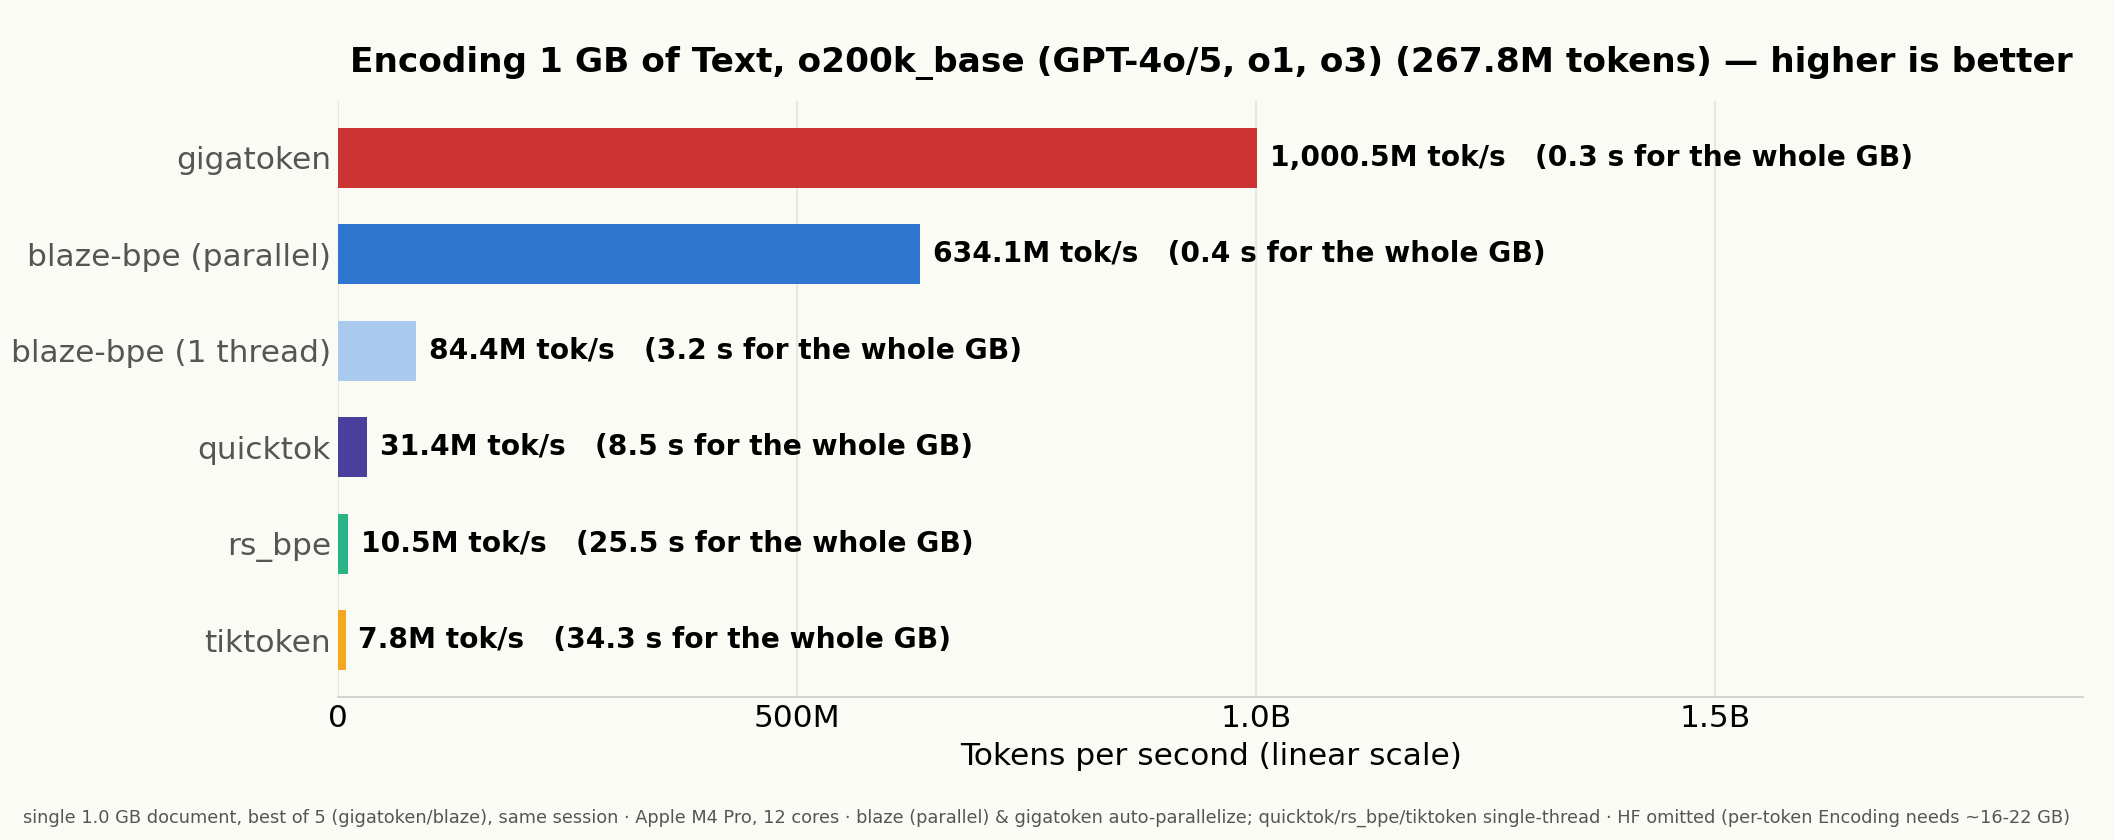
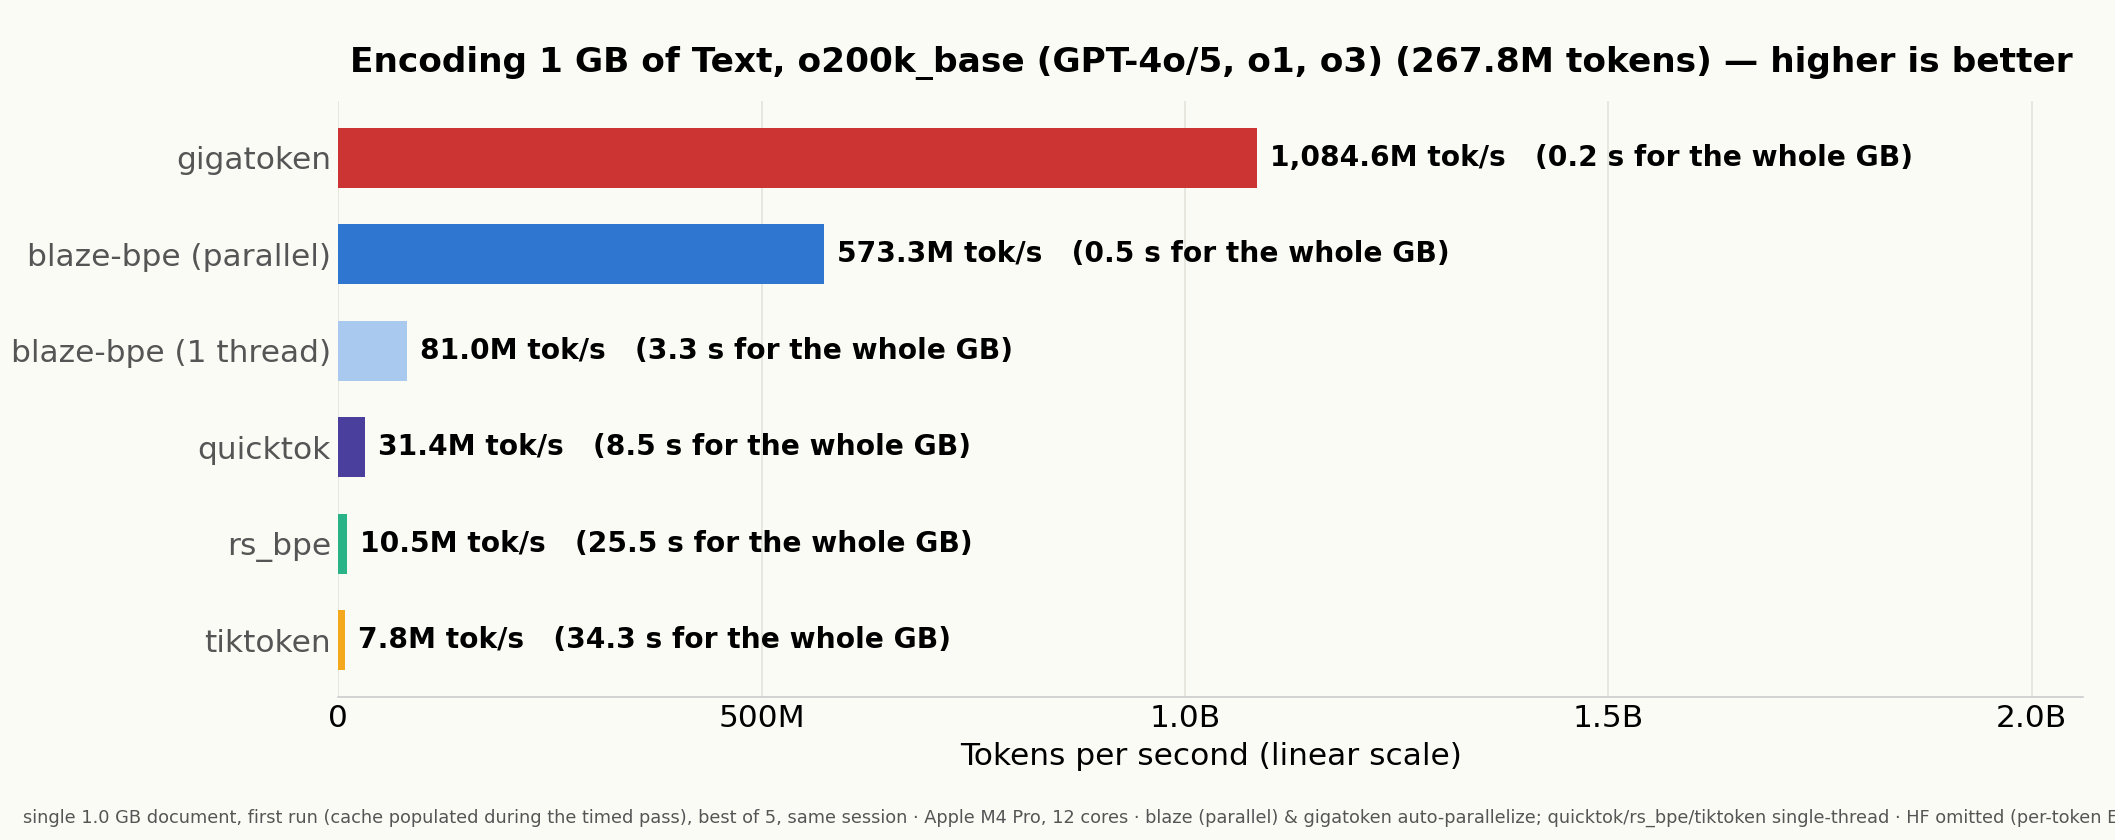
charts: switch 1 GB comparison to first-run (cache-populating) methodology
The prior 1 GB numbers were pre-warmed best-of-5 (warmup call then timed loop),
which measures a warm cache and isn't what a one-shot bulk tokenization does.
Switch to a first-run methodology matching gigatoken's fresh-process bench:
every timed pass is a fresh process with a cold tokenizer cache, so cache
population is included in the timing. Best of 5 fresh runs, gigatoken and blaze
interleaved in one thermal session.

First-run same-session results (M4 Pro):
- cl100k: gigatoken 1278M tok/s, blaze parallel 863M, blaze 1-thread 130M
- o200k:  gigatoken 1085M tok/s, blaze parallel 573M, blaze 1-thread 81M

Adds examples/firstrun.rs (single cold encode(), no warmup; BLAZE_SEQ for
single-thread, BLAZE_ENC for o200k), updates the 1 GB charts, tables, and
methodology notes.

diff --git a/scripts/make_charts.py b/scripts/make_charts.py
@@ -31,14 +31,17 @@ plt.rcParams.update({
     "axes.edgecolor": "#cccccc",
 })
 
-# ---- FRESH same-session numbers (tokens/s), measured back-to-back on AC ----
-# gigatoken (best-of-5) and blaze measured in one thermal state, so the two
-# parallel series are directly comparable. Single-thread rivals kept at their
-# documented values (single-thread is reproducible; blaze 1-thread matches).
-# Only the 1 GB regime is charted; sub-1 GB sizes are omitted (per-call and
-# fixed-overhead effects make them a different, less representative regime).
-GT_1GB_CL = 1116.8e6  # 1 GB shakespeare x900, cl100k, best-of-5
-GT_1GB_O2 = 1000.5e6  # 1 GB shakespeare x900, o200k, best-of-5
+# ---- FRESH same-session FIRST-RUN numbers (tokens/s), measured on AC --------
+# First-run methodology: every measurement is a fresh process, so cache
+# population is included in the timed pass (no warmup). This is the honest
+# number for a one-shot bulk tokenization and is apples-to-apples with
+# gigatoken's fresh-process `bench`. Best of 5 fresh runs (file warm in the OS
+# page cache, tokenizer cache cold each time), gigatoken and blaze interleaved
+# in one thermal session. Single-thread rivals kept at their documented values
+# (single-thread is reproducible; on this repetitive 1 GB corpus first-run and
+# warm converge within the first chunk). Only the 1 GB regime is charted.
+GT_1GB_CL = 1277.8e6  # 1 GB shakespeare x900, cl100k, first-run best-of-5
+GT_1GB_O2 = 1084.6e6  # 1 GB shakespeare x900, o200k, first-run best-of-5
 # ---------------------------------------------------------------------------
 
 TOK_CL = 271_646_100
@@ -132,8 +135,8 @@ def line_chart(path, title, footer, xticklabels, xlabel, series, ymin, ymax):
 def main():
     # ---- Chart 1: 1 GB cl100k bar ----
     rows = [
-        ("blaze-bpe (parallel)", 1043.6e6, C["blaze_par"]),
-        ("blaze-bpe (1 thread)", 138.4e6, C["blaze_1t"]),
+        ("blaze-bpe (parallel)", 862.6e6, C["blaze_par"]),
+        ("blaze-bpe (1 thread)", 129.5e6, C["blaze_1t"]),
         ("quicktok", 37.1e6, C["quicktok"]),
         ("rs_bpe", 12.3e6, C["rs_bpe"]),
         ("tiktoken", 5.7e6, C["tiktoken"]),
@@ -142,15 +145,15 @@ def main():
         rows.append(("gigatoken", GT_1GB_CL, C["gigatoken"]))
     bar_chart("assets/blaze_1gb_graph.png",
               "Encoding 1 GB of Text (271.6M tokens, cl100k_base) — higher is better",
-              "single 1.0 GB document, best of 5 (gigatoken/blaze), same session · Apple M4 Pro, 12 cores · "
-              "blaze (parallel) & gigatoken auto-parallelize; quicktok/rs_bpe/tiktoken single-thread · "
-              "HF omitted (per-token Encoding needs ~16-22 GB)",
+              "single 1.0 GB document, first run (cache populated during the timed pass), best of 5, same session · "
+              "Apple M4 Pro, 12 cores · blaze (parallel) & gigatoken auto-parallelize; quicktok/rs_bpe/tiktoken "
+              "single-thread · HF omitted (per-token Encoding needs ~16-22 GB)",
               TOK_CL, rows)
 
     # ---- Chart 2: 1 GB o200k bar ----
     rows = [
-        ("blaze-bpe (parallel)", 634.1e6, C["blaze_par"]),
-        ("blaze-bpe (1 thread)", 84.4e6, C["blaze_1t"]),
+        ("blaze-bpe (parallel)", 573.3e6, C["blaze_par"]),
+        ("blaze-bpe (1 thread)", 81.0e6, C["blaze_1t"]),
         ("quicktok", 31.4e6, C["quicktok"]),
         ("rs_bpe", 10.5e6, C["rs_bpe"]),
         ("tiktoken", 7.8e6, C["tiktoken"]),
@@ -159,9 +162,9 @@ def main():
         rows.append(("gigatoken", GT_1GB_O2, C["gigatoken"]))
     bar_chart("assets/blaze_1gb_o200k_graph.png",
               "Encoding 1 GB of Text, o200k_base (GPT-4o/5, o1, o3) (267.8M tokens) — higher is better",
-              "single 1.0 GB document, best of 5 (gigatoken/blaze), same session · Apple M4 Pro, 12 cores · "
-              "blaze (parallel) & gigatoken auto-parallelize; quicktok/rs_bpe/tiktoken single-thread · "
-              "HF omitted (per-token Encoding needs ~16-22 GB)",
+              "single 1.0 GB document, first run (cache populated during the timed pass), best of 5, same session · "
+              "Apple M4 Pro, 12 cores · blaze (parallel) & gigatoken auto-parallelize; quicktok/rs_bpe/tiktoken "
+              "single-thread · HF omitted (per-token Encoding needs ~16-22 GB)",
               TOK_O2, rows)
 
     # Sub-1 GB charts (large-documents and small-inputs lines) intentionally

diff --git a/examples/firstrun.rs b/examples/firstrun.rs
@@ -1,0 +1,30 @@
+//! First-run throughput: a single cold `encode()` pass, no warmup, so cache
+//! population is included in the timing — the honest number for a one-shot bulk
+//! tokenization (and apples-to-apples with gigatoken's fresh-process `bench`).
+//!
+//! Each process run is itself a first run (empty thread-local caches). Run the
+//! process several times and keep the best to match how the gigatoken figures
+//! are taken (best of N fresh invocations).
+//!
+//! Usage: cargo run --release --example firstrun -- file [file ...]
+//!        BLAZE_ENC=o200k cargo run --release --example firstrun -- file
+
+use std::time::Instant;
+
+fn main() {
+    let tok = match std::env::var("BLAZE_ENC").as_deref() {
+        Ok("o200k") => blaze_bpe::Tokenizer::o200k_base("data/o200k_base.tiktoken").unwrap(),
+        _ => blaze_bpe::Tokenizer::cl100k_base("data/cl100k_base.tiktoken").unwrap(),
+    };
+    for path in std::env::args().skip(1) {
+        let text = std::fs::read_to_string(&path).unwrap();
+        // No warmup: this is the first and only encode of the process, so every
+        // per-thread cache starts empty and fills during the timed pass.
+        let seq = std::env::var_os("BLAZE_SEQ").is_some();
+        let t = Instant::now();
+        let n = if seq { tok.encode_sequential(&text).len() } else { tok.encode(&text).len() };
+        let secs = t.elapsed().as_secs_f64();
+        let tag = if seq { "blaze_firstrun_seq" } else { "blaze_firstrun" };
+        println!("{tag}\t{path}\t{n}\t{:.1}\t{:.3}s", n as f64 / secs, secs);
+    }
+}

diff --git a/README.md b/README.md
@@ -117,19 +117,22 @@ uvx --with tokenizers --from gigatoken gigatoken bench 'Xenova/gpt-4' data/owt_1
 ### Encoding 1 GB of text (cl100k_base)
 
 One 1.0 GB document (shakespeare x900, 271,646,100 tokens), identical token
-output across all implementations, best of 5, one thermal session, M4 Pro.
+output across all implementations. **First-run measurement**: every timed pass
+is a fresh process, so cache population is included in the timing (no warmup) —
+the honest number for a one-shot bulk job, and apples-to-apples with gigatoken's
+fresh-process `bench`. Best of 5, one thermal session, M4 Pro.
 [gigatoken](https://github.com/marcelroed/gigatoken) and blaze (parallel) both
 auto-parallelize across all 12 cores; quicktok/rs-bpe/tiktoken are single-thread
 (Python bindings, FFI fully amortized at this size). At 1 GB gigatoken's
-whole-file design edges past blaze's chunked-parallel encode — the same crossover
-the [OpenWebText](#vs-gigatoken-on-real-world-text-openwebtext) section traces on
-real web text:
+whole-file design pulls ahead of blaze's chunked-parallel encode — the same
+crossover the [OpenWebText](#vs-gigatoken-on-real-world-text-openwebtext) section
+traces on real web text:
 
 | implementation           | tokens/s   | wall time for 1 GB | vs tiktoken |
 |--------------------------|-----------:|-------------------:|------------:|
-| **gigatoken**            |  **1117M** |         **0.24 s** |    **196x** |
-| **blaze-bpe (parallel)** |  **1044M** |         **0.26 s** |    **183x** |
-| blaze-bpe (1 thread)     |       138M |              2.0 s |         24x |
+| **gigatoken**            |  **1278M** |         **0.21 s** |    **224x** |
+| **blaze-bpe (parallel)** |   **863M** |         **0.32 s** |    **151x** |
+| blaze-bpe (1 thread)     |       130M |              2.1 s |         23x |
 | quicktok 0.4 (C++)       |      37.1M |              7.3 s |        6.5x |
 | rs-bpe 0.1               |      12.3M |             22.1 s |        2.2x |
 | tiktoken 0.12            |       5.7M |             47.7 s |          1x |
@@ -137,17 +140,18 @@ real web text:
 ![Encoding 1 GB of text, cl100k_base](assets/blaze_1gb_graph.png)
 
 (HF tokenizers omitted at this size: its per-token `Encoding` metadata needs
-~16-22 GB of RAM. At 32 MB it measures 1.0M tokens/s. These all-core figures are
-a same-session best-of-5 under concurrent load; the isolated plugged-in peak is
-higher — see the [32 MB interleaved measurement](#vs-python-tiktoken-on-one-long-document-32-mb-cl100k).)
+~16-22 GB of RAM. At 32 MB it measures 1.0M tokens/s. These are all-core
+first-run figures — each timed pass a fresh process with a cold tokenizer cache;
+a warm pre-populated loop measures somewhat higher but is not what a one-shot
+bulk tokenization does.)
 
 Same 1 GB document with **o200k_base** (the encoding used by GPT-4o/4.1/5,
-o1, o3 and o4-mini; 267,845,400 tokens, again byte-identical everywhere):
-gigatoken 1001M tokens/s (0.27 s, **128x tiktoken**), blaze parallel 634M
-(0.42 s, 81x), blaze single-thread 84M (11x), quicktok 31.4M (4.0x), rs-bpe
-10.5M (1.3x), tiktoken 7.8M (34.3 s). gigatoken's throughput is vocab-agnostic,
-so on the bigger o200k vocab — which costs blaze and the others MB/s — its lead
-over blaze widens to 1.6x.
+o1, o3 and o4-mini; 267,845,400 tokens, again byte-identical everywhere),
+same first-run methodology: gigatoken 1085M tokens/s (0.25 s, **139x tiktoken**),
+blaze parallel 573M (0.47 s, 73x), blaze single-thread 81M (10x), quicktok 31.4M
+(4.0x), rs-bpe 10.5M (1.3x), tiktoken 7.8M (34.3 s). gigatoken's throughput is
+vocab-agnostic, so on the bigger o200k vocab — which costs blaze and the others
+MB/s — its lead over blaze widens to 1.9x.
 
 ![Encoding 1 GB of text, o200k_base](assets/blaze_1gb_o200k_graph.png)
 
@@ -156,9 +160,10 @@ over blaze widens to 1.6x.
 Interleaved measurement (`python3 scripts/ratio.py`), identical token output,
 M4 Pro (8P+4E): tiktoken ~21 MB/s single-thread; blaze chunked-parallel
 **~4.2 GB/s (~198x)**, warm sequential ~575 MB/s. Battery power throttles
-all-core clocks; measure plugged in. This is the *isolated* peak (nothing else
-running); the same-session best-of-5 all-core figures in the charts and 1 GB
-tables above run ~30% lower under concurrent load. Per-regime single-thread numbers
+all-core clocks; measure plugged in. This is the warm, pre-populated *isolated*
+peak (nothing else running); the first-run all-core figures in the 1 GB charts
+and tables above run lower, since they include cache population and no warmup.
+Per-regime single-thread numbers
 (`cargo run --release --example regimes`): cold/novel ~290 MB/s, warm/repeat
 ~580 MB/s, one unbroken novel CJK run ~100 MB/s (repeated CJK sentences hit
 the long-piece cache and run at ~370 MB/s). The cold/novel figure includes the
@@ -195,8 +200,13 @@ Reproduce with:
 ```sh
 cargo test --release                     # byte-identical correctness vs tiktoken-rs
 cargo run --release --example compare    # throughput comparison table
+cargo run --release --example firstrun -- FILE  # first-run (cold-cache) throughput on a file
 cargo bench                              # criterion benchmarks
 ```
+
+The 1 GB first-run bars are reproduced with `scripts/bench_gigatoken.sh` (fresh
+gigatoken invocations) alongside `cargo run --release --example firstrun` for
+blaze; `python3 scripts/make_charts.py` renders the charts from those numbers.
 
 ## How it works
 
